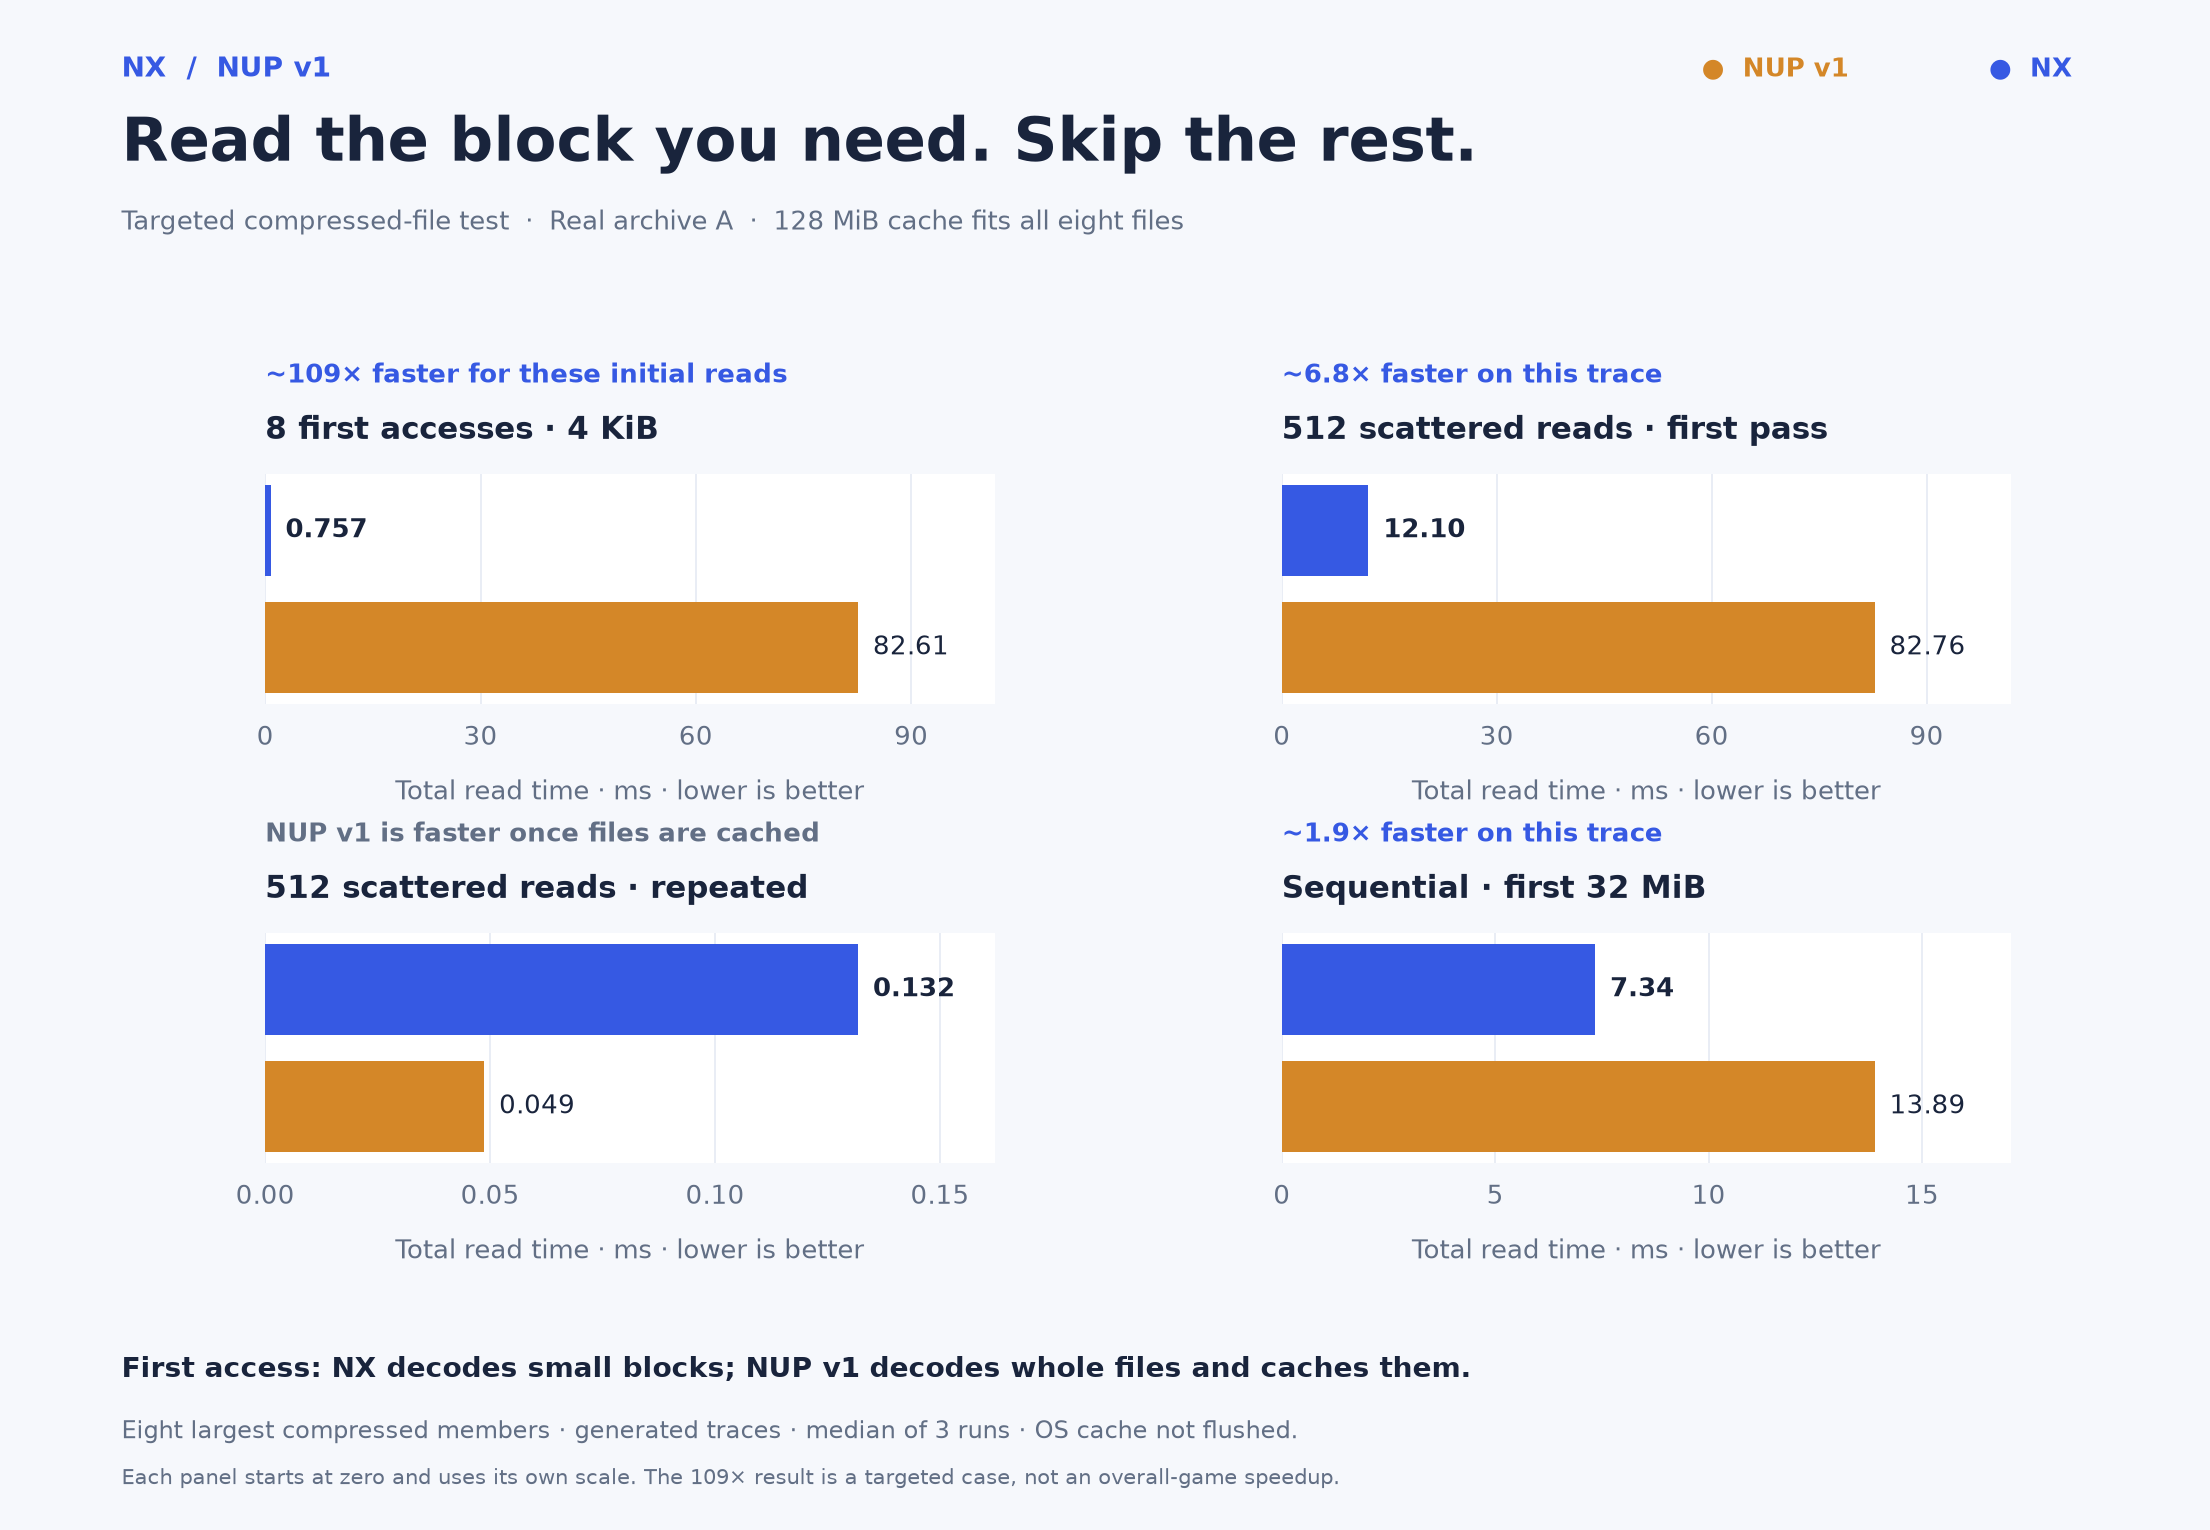
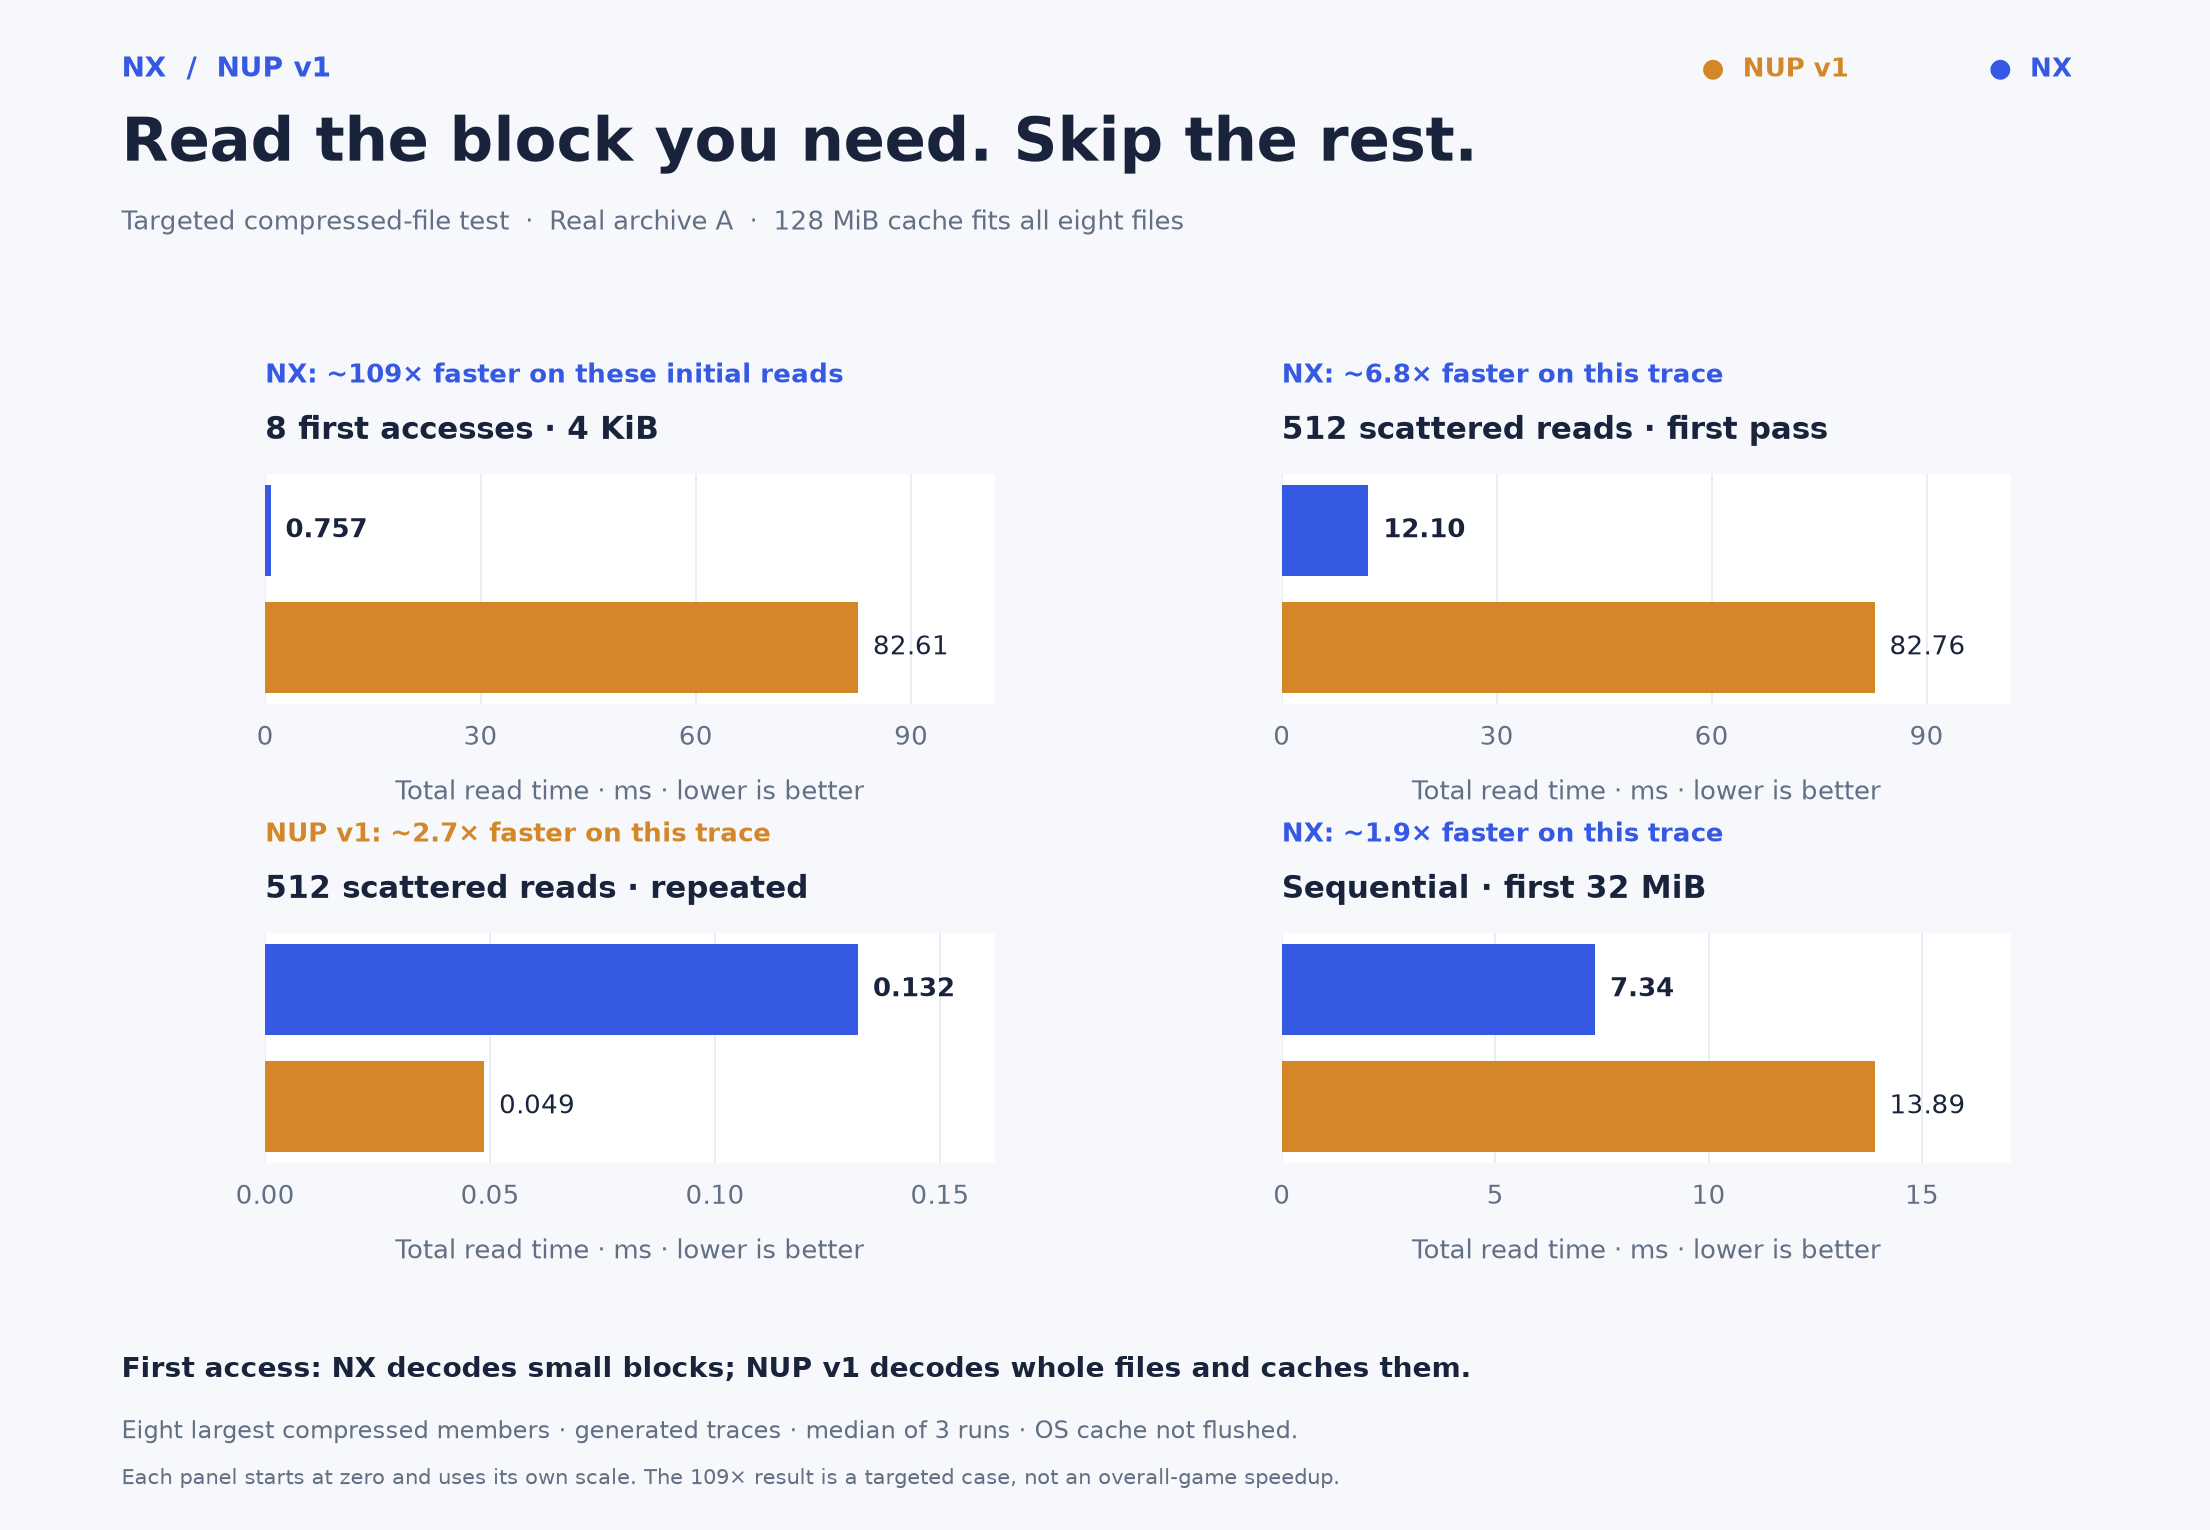
Label meaningful speed and memory ratios on benchmark charts

diff --git a/benchmarks/render_readme_benchmarks.py b/benchmarks/render_readme_benchmarks.py
@@ -35,7 +35,11 @@ labels=['Random 4 KiB','Sequential 256 KiB','Interleaved 64 KiB']
 fig=plt.figure(figsize=(13,7.5));header(fig,'Fast repeated reads. A smaller memory footprint.','Real archive A  ·  32 MiB cache budget  ·  Repeated access patterns')
 for rect,field,title,unit in [([.19,.27,.31,.46],'p99_us','Read latency · P99','Microseconds · lower is better'),([.66,.27,.28,.46],'peak_resident_mib','Peak resident memory','MiB · lower is better')]:
  ax=fig.add_axes(rect);bars(ax,labels if field=='p99_us' else ['','',''],[round(get(s,'nup_mapped',field),1) for s in scenarios],[round(get(s,'nx_verify_mapped',field),1) for s in scenarios],unit);ax.set_title(title,loc='left',fontsize=14,fontweight='bold',pad=18)
-fig.text(.055,.115,'32% less resident memory on the random-read trace: 59 MiB vs 87 MiB.',fontsize=13,fontweight='bold')
+ if field=='p99_us':
+  ratio=get('interleaved_8files','nup_mapped',field)/get('interleaved_8files','nx_verify_mapped',field)
+  ax.text(3.2,2,f'NX: ~{ratio:.1f}× faster (P99)',va='center',color=NX,fontsize=10,fontweight='bold')
+ratio=get('random_4096','nup_mapped','peak_resident_mib')/get('random_4096','nx_verify_mapped','peak_resident_mib')
+fig.text(.055,.115,f'Random reads: NX uses 32% less resident memory. NUP v1 uses ~{ratio:.1f}× as much.',fontsize=13,fontweight='bold')
 fig.text(.055,.065,'Native C++ readers · same mapped input · median of 3 runs · OS cache not flushed.',fontsize=10,color=MUTED)
 fig.text(.055,.035,'Generated access patterns on real content. NUP v1 also wins reads shown here. These are not gameplay measurements.',fontsize=9,color=MUTED)
 fig.savefig(OUT/'readme-repeated-reads.png',dpi=170);plt.close(fig)
@@ -52,7 +56,11 @@ for i,(s,p,title,note) in enumerate(cases):
   v=x if t.get_fontweight()=='bold' else n
   t.set_text(f'{v:.3f}' if v<1 else f'{v:.2f}')
  ax.set_title(title,loc='left',fontsize=13,fontweight='bold',pad=15)
- fig.text(left,bottom+.21,note,fontsize=11,color=NX if i!=2 else MUTED,fontweight='bold')
+ winner='NX' if n>x else 'NUP v1'
+ ratio=max(n,x)/min(n,x)
+ value=f'{ratio:.0f}' if ratio>=100 else f'{ratio:.1f}'
+ note=f'{winner}: ~{value}× faster' + (' on these initial reads' if i==0 else ' on this trace')
+ fig.text(left,bottom+.21,note,fontsize=11,color=NX if winner=='NX' else NUP,fontweight='bold')
 fig.text(.055,.10,'First access: NX decodes small blocks; NUP v1 decodes whole files and caches them.',fontsize=12,fontweight='bold')
 fig.text(.055,.06,'Eight largest compressed members · generated traces · median of 3 runs · OS cache not flushed.',fontsize=10,color=MUTED)
 fig.text(.055,.03,'Each panel starts at zero and uses its own scale. The 109× result is a targeted case, not an overall-game speedup.',fontsize=9,color=MUTED)
